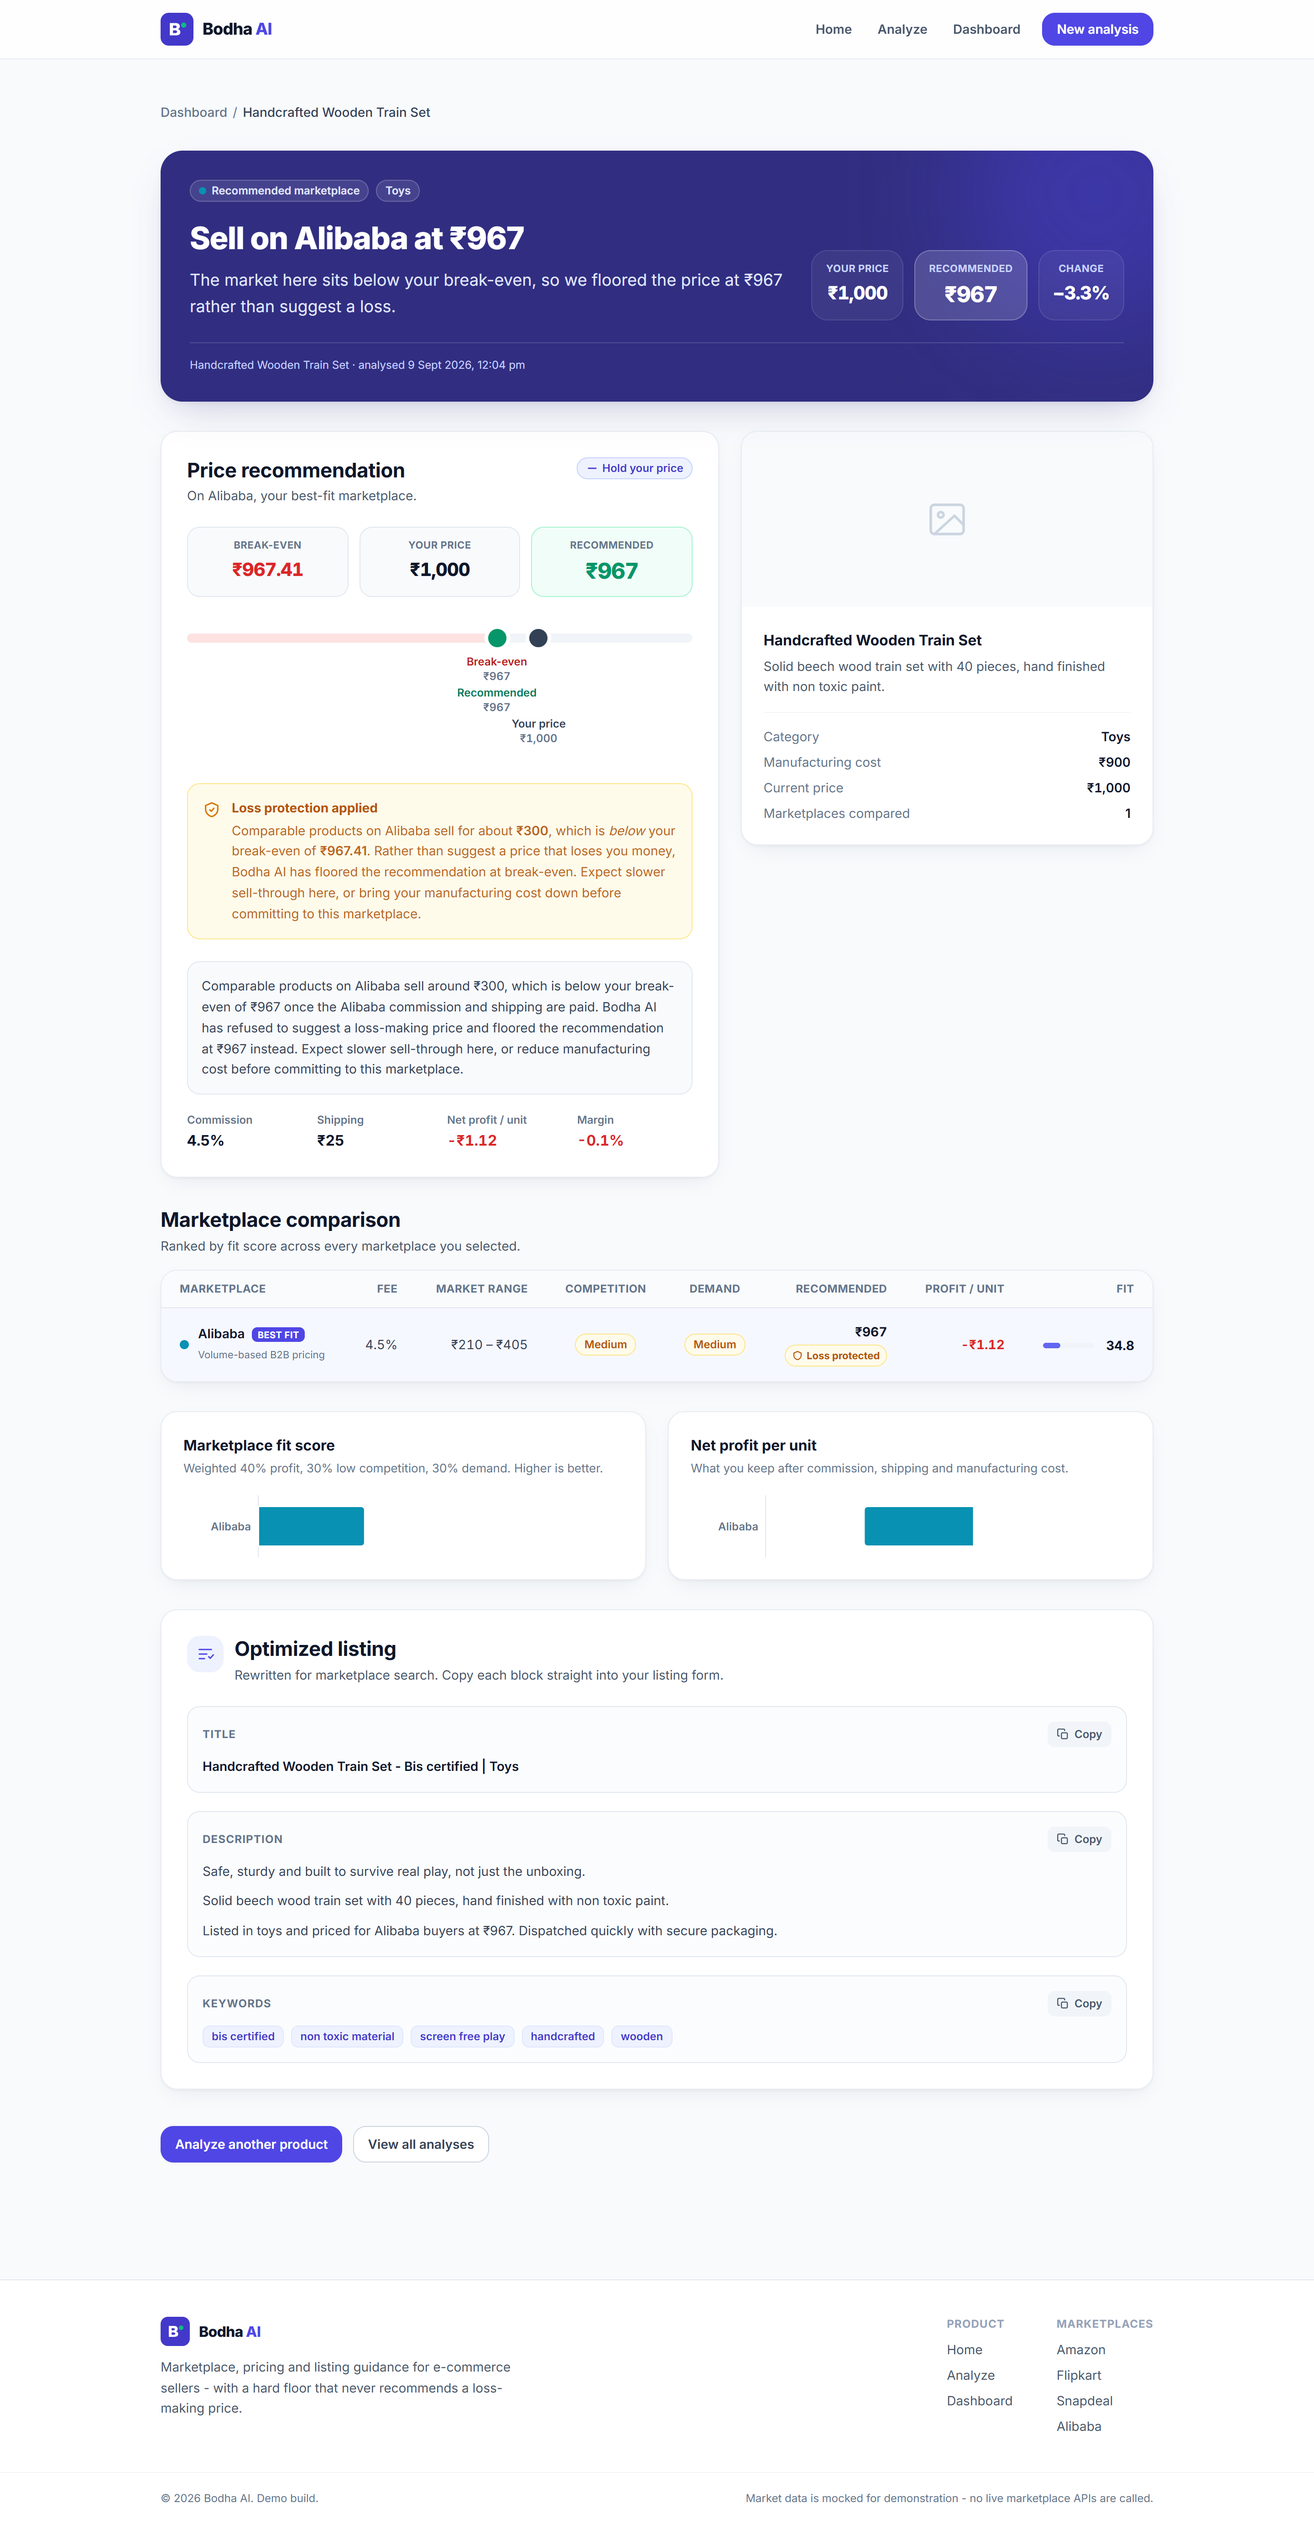
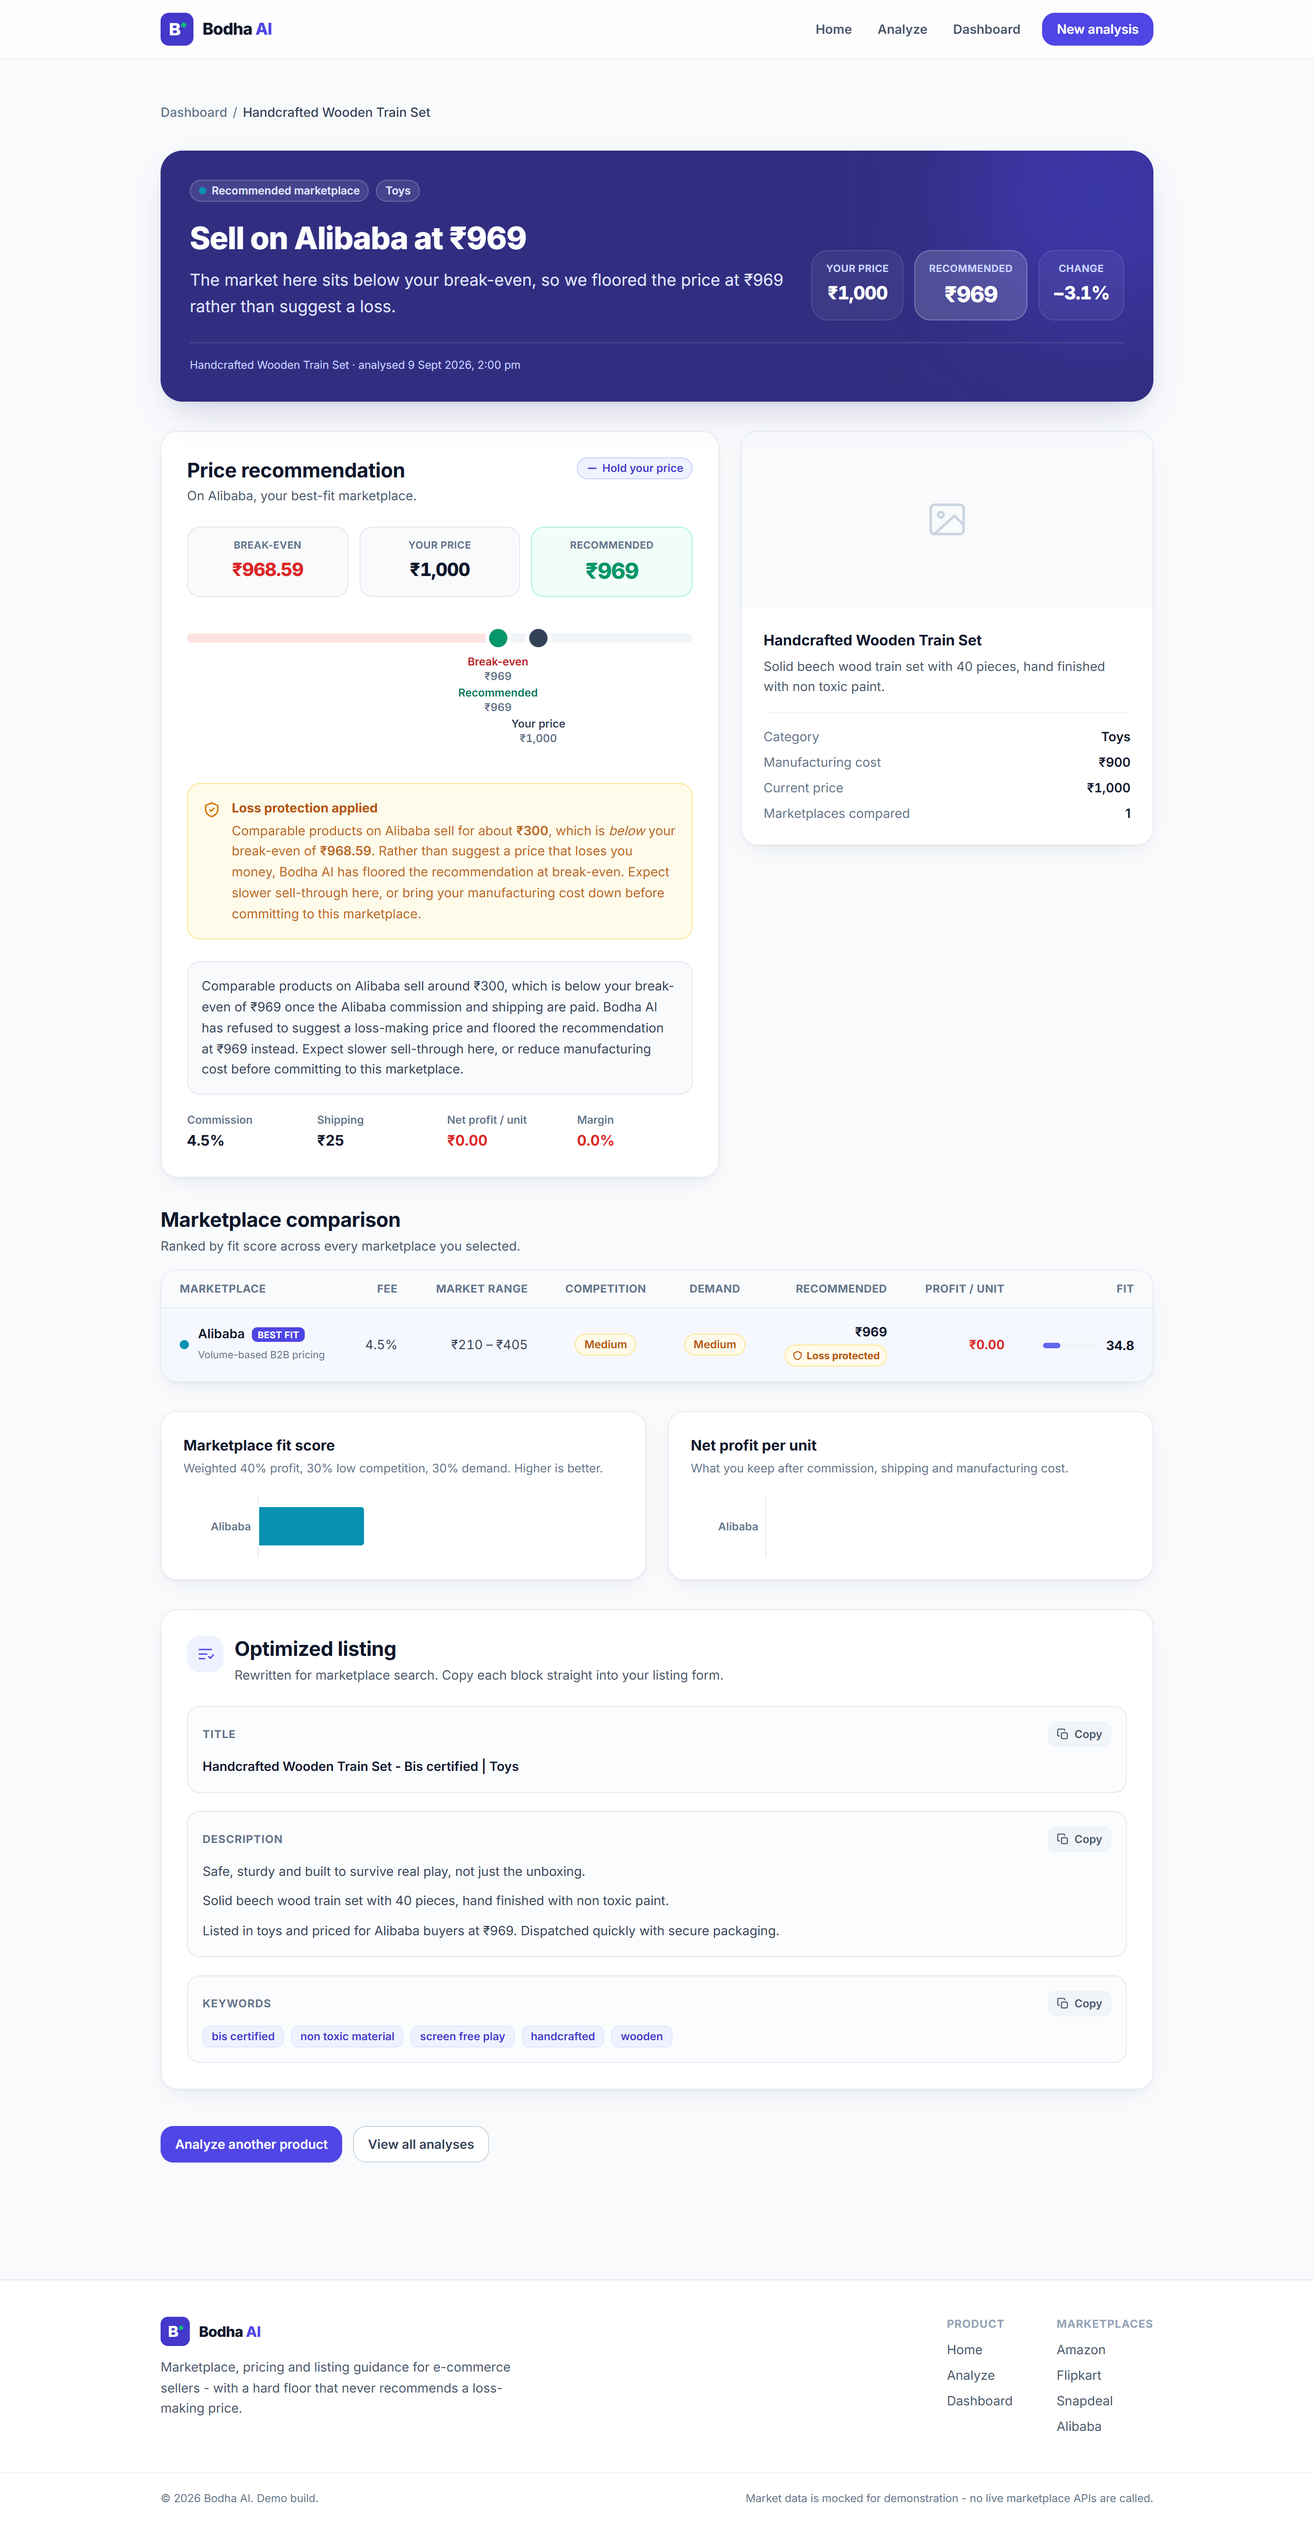
Update break-even formula and documentation assets

Changed region(s): [[0.1875, 0.3421, 0.5, 0.3732], [0.6562, 0.591, 0.75, 0.6221], [0.3438, 0.2488, 0.4062, 0.2799]]

diff --git a/backend/src/tests/pricingEngine.test.ts b/backend/src/tests/pricingEngine.test.ts
@@ -22,7 +22,6 @@ import {
   normalizeProfit,
   resolvePriceAction,
   toIndexLevel,
-  zeroProfitPrice,
 } from '../services/pricingEngine.js';
 import type { PricingInput } from '../types/index.js';
 
@@ -55,8 +54,8 @@ describe('Section 2.4 - required worked examples', () => {
     expect(amazon.lossRiskAvoided).toBe(false);
     expect(amazon.recommendedPrice).toBeGreaterThan(amazon.breakEvenPrice);
 
-    // Break-even: 400 / (1 - 0.18) + 60 = 547.80
-    expect(amazon.breakEvenPrice).toBeCloseTo(547.8, 1);
+    // Break-even: (400 + 60) / (1 - 0.18) = 560.98
+    expect(amazon.breakEvenPrice).toBeCloseTo(560.98, 1);
 
     // Profit: 999 - (999 * 0.18) - 60 - 400 = 359.18
     expect(amazon.estimatedProfit).toBeCloseTo(359.18, 2);
@@ -98,7 +97,7 @@ describe('Section 2.4 - required worked examples', () => {
 
     const amazon = result.platforms.find((platform) => platform.id === 'amazon');
     expect(amazon?.recommendedPrice).toBe(ELECTRONICS_AMAZON_MEDIAN);
-    expect(amazon?.breakEvenPrice).toBeCloseTo(547.8, 1);
+    expect(amazon?.breakEvenPrice).toBeCloseTo(560.98, 1);
   });
 
   it('case 3: never recommends below break-even when the market price is too low', () => {
@@ -128,17 +127,16 @@ describe('Section 2.4 - required worked examples', () => {
     expect(alibaba.recommendedPrice).toBeCloseTo(expectedBreakEven, 2);
     expect(alibaba.lossRiskAvoided).toBe(true);
 
-    // At the floor the seller recovers manufacturing cost AND the commission
-    // charged on it - this is the guarantee the product makes.
-    const commission = alibaba.recommendedPrice * PLATFORMS.alibaba.feePercent;
-    expect(alibaba.recommendedPrice - commission).toBeGreaterThanOrEqual(900);
+    // At the floor the seller recovers manufacturing cost AND shipping, in
+    // full, after commission - this is the guarantee the product makes.
+    const netOfCommission = alibaba.recommendedPrice * (1 - PLATFORMS.alibaba.feePercent);
+    expect(netOfCommission).toBeCloseTo(900 + PLATFORMS.alibaba.avgShippingFee, 2);
 
-    // The only uncovered amount is the commission charged on the flat shipping
-    // fee, which the specified floor formula does not gross up. See the
-    // "KNOWN RESIDUAL" note on calculateBreakEvenPrice.
-    const residual = -PLATFORMS.alibaba.feePercent * PLATFORMS.alibaba.avgShippingFee;
-    expect(alibaba.estimatedProfit).toBeCloseTo(residual, 2);
-    expect(Math.abs(alibaba.estimatedProfit)).toBeLessThan(2);
+    // Selling at exactly the floor is exactly break-even - zero profit, not a
+    // near-zero residual. That is what "break-even" means. (The response field
+    // is rounded to 2dp, so assert against that same precision.)
+    expect(alibaba.estimatedProfit).toBeCloseTo(0, 2);
+    expect(alibaba.profitMargin).toBeCloseTo(0, 2);
 
     expect(alibaba.explanation).toMatch(/refused to suggest a loss-making price/i);
   });
@@ -166,10 +164,14 @@ describe('loss prevention holds across every category and platform', () => {
             recommendation.breakEvenPrice - 0.01,
           );
 
-          // The headline guarantee: manufacturing cost plus the marketplace
-          // commission is always recovered, on every category x platform pair.
+          // The headline guarantee: manufacturing cost AND shipping are always
+          // recovered after commission, on every category x platform pair -
+          // so estimated profit is never negative.
           const netOfCommission = recommendation.recommendedPrice * (1 - recommendation.feePercent);
-          expect(netOfCommission).toBeGreaterThanOrEqual(manufacturingCost - 0.01);
+          expect(netOfCommission).toBeGreaterThanOrEqual(
+            manufacturingCost + recommendation.avgShippingFee - 0.01,
+          );
+          expect(recommendation.estimatedProfit).toBeGreaterThanOrEqual(-0.01);
         }
       }
     }
@@ -183,9 +185,9 @@ describe('formula helpers', () => {
     expect(() => median([])).toThrow(/at least one value/);
   });
 
-  it('grosses the manufacturing cost up by the commission, then adds shipping', () => {
-    // 400 / (1 - 0.18) + 60
-    expect(calculateBreakEvenPrice(400, 0.18, 60)).toBeCloseTo(547.8, 1);
+  it('grosses cost AND shipping up together by the commission', () => {
+    // (400 + 60) / (1 - 0.18)
+    expect(calculateBreakEvenPrice(400, 0.18, 60)).toBeCloseTo(560.98, 1);
     // A zero-fee, zero-shipping marketplace breaks even at cost.
     expect(calculateBreakEvenPrice(400, 0, 0)).toBe(400);
     expect(() => calculateBreakEvenPrice(400, 1, 0)).toThrow(/below 1/);
@@ -194,15 +196,10 @@ describe('formula helpers', () => {
   it('computes profit net of commission, shipping and cost', () => {
     expect(calculateEstimatedProfit(1000, 400, 0.2, 50)).toBeCloseTo(350, 5);
 
-    // At the specified floor, profit is short by exactly the commission charged
-    // on the flat shipping fee (0.18 * 60 = 10.80). Documented, not accidental.
+    // Selling at exactly the break-even floor is exactly zero profit - the
+    // floor and the profit formula agree by construction, with no residual.
     const breakEven = calculateBreakEvenPrice(400, 0.18, 60);
-    expect(calculateEstimatedProfit(breakEven, 400, 0.18, 60)).toBeCloseTo(-10.8, 6);
-
-    // Grossing shipping up too gives the strictly-zero-profit price.
-    const zeroProfit = zeroProfitPrice(400, 0.18, 60);
-    expect(calculateEstimatedProfit(zeroProfit, 400, 0.18, 60)).toBeCloseTo(0, 6);
-    expect(zeroProfit).toBeGreaterThan(breakEven);
+    expect(calculateEstimatedProfit(breakEven, 400, 0.18, 60)).toBeCloseTo(0, 6);
   });
 
   it('weights fit score 40/30/30 across profit, competition and demand', () => {

diff --git a/backend/src/services/pricingEngine.ts b/backend/src/services/pricingEngine.ts
@@ -6,9 +6,10 @@
  * returns a ranked recommendation. That makes it directly unit-testable (see
  * `src/tests/pricingEngine.test.ts`).
  *
- * The single most important guarantee: a recommended price is NEVER below
- * `manufacturingCost + platform fees + shipping`. See `calculateBreakEvenPrice`
- * and the clamp inside `analyzePlatform`.
+ * The single most important guarantee: a recommended price is NEVER below the
+ * true zero-profit floor - manufacturing cost and shipping, both grossed up
+ * for the platform's commission. See `calculateBreakEvenPrice` and the clamp
+ * inside `analyzePlatform`; `estimatedProfit` at that exact floor is always 0.
  */
 
 import { getMarketSnapshot, PLATFORMS } from '../data/mockMarketplaceData.js';
@@ -100,21 +101,17 @@ export function normalizeProfit(estimatedProfit: number, recommendedPrice: numbe
 /**
  * The loss-prevention floor.
  *
- * The marketplace commission is charged on the SALE price, not on cost, so the
- * cost must be grossed up by `1 - feePercent` before shipping is added.
+ * The marketplace commission is charged on the SALE price, not on cost, so
+ * BOTH manufacturing cost and shipping must be grossed up by `1 - feePercent`
+ * together - shipping is a real out-of-pocket cost the seller fronts just like
+ * manufacturing, and commission bites its share too.
  *
- * GUARANTEE: at this price the seller always recovers manufacturing cost plus
- * the marketplace commission in full. Concretely, for cost 400 / fee 18% /
- * shipping 60 the floor is 547.80, of which 98.60 is commission, leaving
- * 449.20 - comfortably above the 400 unit cost.
- *
- * KNOWN RESIDUAL: because the flat shipping fee is added *after* the gross-up
- * rather than being grossed up itself, this floor leaves the shipping fee's own
- * share of commission uncovered - exactly `feePercent * avgShippingFee`
- * (10.80 in the example above). The formula is specified this way, and the
- * product guarantee it backs is "cost + platform fees", which it meets. A floor
- * that also grossed shipping up would be `(cost + shipping) / (1 - fee)`.
- * `zeroProfitPrice()` below exposes that stricter figure for reference.
+ * GUARANTEE: selling at exactly this price yields exactly zero profit - not a
+ * near-zero residual. Concretely, for cost 400 / fee 18% / shipping 60, the
+ * floor is (400 + 60) / (1 - 0.18) = 560.98, of which 100.98 is commission,
+ * leaving exactly 460.00 to cover the 400 cost and 60 shipping. Any price at
+ * or above this floor is provably non-loss-making; `calculateEstimatedProfit`
+ * at this exact price always evaluates to 0.
  */
 export function calculateBreakEvenPrice(
   manufacturingCost: number,
@@ -124,18 +121,6 @@ export function calculateBreakEvenPrice(
   if (feePercent >= 1) {
     throw new Error('feePercent must be below 1 (100%)');
   }
-  return manufacturingCost / (1 - feePercent) + avgShippingFee;
-}
-
-/**
- * The strictly-zero-profit price, where shipping is grossed up alongside cost.
- * Reported for transparency; the recommendation floor is `calculateBreakEvenPrice`.
- */
-export function zeroProfitPrice(
-  manufacturingCost: number,
-  feePercent: number,
-  avgShippingFee: number,
-): number {
   return (manufacturingCost + avgShippingFee) / (1 - feePercent);
 }
 

diff --git a/backend/src/config/env.ts b/backend/src/config/env.ts
@@ -48,8 +48,7 @@ export const env = {
     .map((origin) => origin.trim())
     .filter(Boolean),
   databasePath:
-    process.env.DATABASE_PATH ??
-    (process.env.VERCEL ? '/tmp/bodha.db' : './data/bodha.db'),
+    process.env.DATABASE_PATH ?? (process.env.VERCEL ? '/tmp/bodha.db' : './data/bodha.db'),
   /** Empty in the demo - the rule-based listing optimizer is used instead. */
   llmApiKey: process.env.LLM_API_KEY ?? '',
   llmModel: process.env.LLM_MODEL ?? 'claude-sonnet-5',

diff --git a/backend/src/app.ts b/backend/src/app.ts
@@ -20,10 +20,7 @@ export function createApp(): express.Express {
   app.use(express.json({ limit: '8mb' }));
   app.use(
     cors({
-      origin:
-        env.corsOrigins.includes('*') || Boolean(process.env.VERCEL)
-          ? true
-          : env.corsOrigins,
+      origin: env.corsOrigins.includes('*') || Boolean(process.env.VERCEL) ? true : env.corsOrigins,
     }),
   );
 

diff --git a/README.md b/README.md
@@ -95,7 +95,7 @@ For each selected marketplace:
 | Step | Formula |
 |---|---|
 | Market price | `median(comparable listing prices)` for that category × platform |
-| **Break-even floor** | `manufacturingCost / (1 - feePercent) + avgShippingFee` |
+| **Break-even floor** | `(manufacturingCost + avgShippingFee) / (1 - feePercent)` |
 | Recommended price | `max(marketPrice, breakEvenPrice)` — clamped, never below the floor |
 | Estimated profit | `price - price × feePercent - avgShippingFee - manufacturingCost` |
 | Fit score (0–100) | `0.4 × normalize(profit) + 0.3 × (100 - competition) + 0.3 × demand` |
@@ -117,14 +117,14 @@ does not follow the market down. It floors the recommendation at break-even, set
 `lossRiskAvoided: true`, and says so in the UI with a "Loss protection applied"
 notice explaining why.
 
-> **A note on the break-even formula.** As specified, the flat shipping fee is added
-> *after* the cost is grossed up for commission, rather than being grossed up itself.
-> At exactly the floor this leaves `feePercent × avgShippingFee` uncovered (₹10.80 on
-> Amazon at a ₹60 shipping fee). The guarantee this floor backs — *manufacturing cost
-> plus platform fees is always recovered* — holds in full, and the residual is
-> asserted explicitly in the tests. `zeroProfitPrice()` exposes the stricter
-> `(cost + shipping) / (1 - fee)` figure for reference. See the `KNOWN RESIDUAL` note
-> on `calculateBreakEvenPrice`.
+> **Why shipping is grossed up too.** Shipping is a real out-of-pocket cost the
+> seller fronts, same as manufacturing — so it is grossed up by the commission
+> alongside cost, not added on afterward. That makes the floor a *true*
+> zero-profit price: selling at exactly `breakEvenPrice` always yields exactly
+> `estimatedProfit === 0` (asserted directly in the tests), not a small residual
+> loss. For cost ₹400 / Amazon's 18% fee / ₹60 shipping, the floor is
+> `(400 + 60) / (1 - 0.18) = ₹560.98` — of which ₹100.98 is commission, leaving
+> exactly ₹460 to cover the ₹400 cost and ₹60 shipping.
 
 ---
 
@@ -193,7 +193,7 @@ Base URL `http://localhost:4000`. All errors return
   "platforms": [
     {
       "name": "Amazon", "feePercent": 0.18, "marketPriceRange": [899, 1199],
-      "recommendedPrice": 999, "breakEvenPrice": 547.8,
+      "recommendedPrice": 999, "breakEvenPrice": 560.98,
       "estimatedProfit": 359.18, "profitMargin": 0.3595,
       "competition": "High", "demand": "High", "fitScore": 74.8,
       "priceAction": "increase", "explanation": "Similar products on Amazon sell…",
@@ -231,12 +231,12 @@ The three cases required by the brief are grouped under
 `Section 2.4 - required worked examples`:
 
 1. **Increase** — cost ₹400, listed at ₹800, market ≈ ₹1000 → recommends **₹999**
-   with `priceAction: "increase"`, break-even ₹547.80, profit ₹359.18, and an
+   with `priceAction: "increase"`, break-even ₹560.98, profit ₹359.18, and an
    explanation citing high demand and competitors pricing higher.
 2. **Decrease** — cost ₹400, listed at ₹1400 → `"decrease"`, with the final price
    still more than 1.5× the break-even floor.
 3. **Loss prevention** — cost ₹900 on Toys/Alibaba, where the ₹300 market median is
-   far below the ₹967.41 floor → `recommendedPrice === breakEvenPrice` and
+   far below the ₹968.59 floor → `recommendedPrice === breakEvenPrice` and
    `lossRiskAvoided === true`.
 
 Plus an exhaustive sweep asserting that across **every** category × platform × cost
@@ -262,8 +262,8 @@ A scripted Playwright walkthrough drives a real Chrome through the whole product
 | Mobile (390×844) | [`10-mobile-home.png`](docs/screenshots/10-mobile-home.png), [`11-mobile-report.png`](docs/screenshots/11-mobile-report.png) |
 
 The walkthrough asserts the real numbers on the rendered page (₹999 recommendation,
-₹547.80 break-even, ₹359.18 profit, 18.0% / 4.5% fees), that history persists and
-reopens correctly, that loss protection fires and floors the price at ₹967.41, and
+₹560.98 break-even, ₹359.18 profit, 18.0% / 4.5% fees), that history persists and
+reopens correctly, that loss protection fires and floors the price at ₹968.59, and
 that neither the home page nor the report scrolls horizontally on a phone.
 
 ---
